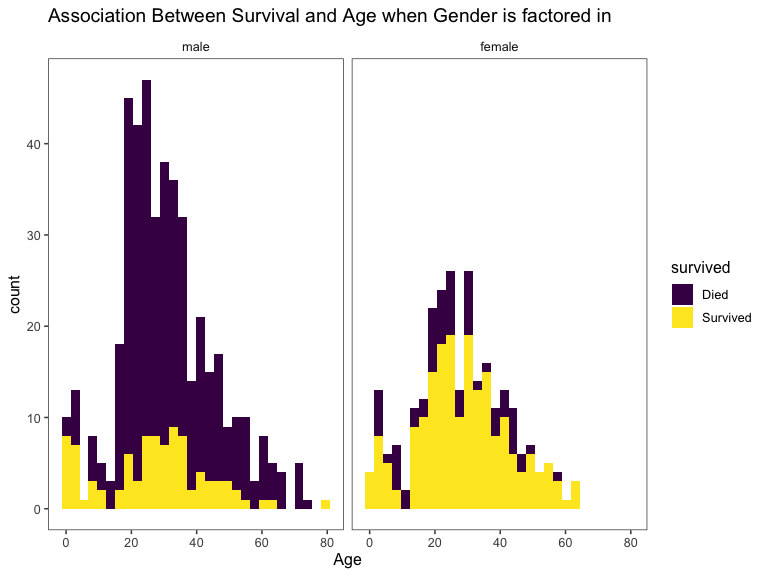
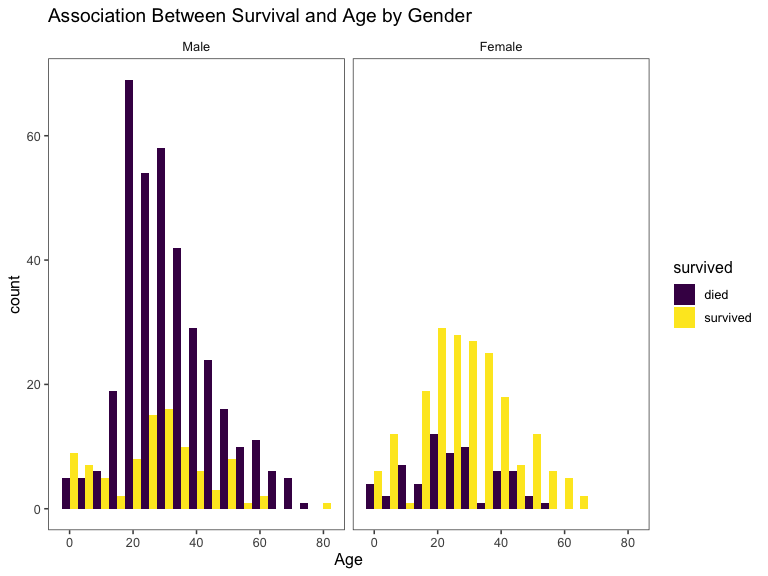
trying to generate the roc curve.

diff --git a/README.md b/README.md
@@ -10,10 +10,9 @@ This titanic project is based on the infamous sinking of Titanic in
 passengers. Datasets provided include the train dataset with `891`
 passengers whose survival fate is known and a test dataset with `418`
 passengers whose survival fate is unknown. I will first start by loading
-both datasets then combine them to do some feature engineering (data
-cleaning and data manipulation) then use machine learning tools to
-predict what the survival fate for the passengers in the test dataset
-would have been.
+both datasets then combine them to do some feature engineering then use
+machine learning tools to predict what the survival fate for the
+passengers in the test dataset would have been.
 
 ## Loading the Dataset
 
@@ -78,12 +77,13 @@ The code chunk below converts appropriate variables to factor variables.
 titanic =
   Titanic %>% 
   mutate(
-    survived = recode(survived, "0" = "Died", "1" = "Survived"),
+    gender = recode(gender, "male" = "Male", "female" = "Female"),
+    survived = recode(survived, "0" = "died", "1" = "survived"),
     embarked = recode(embarked, "C" = "Cherbourg", "S" = "Southampton",
                       "Q" = "Queenstown"),
     pclass = recode(pclass, "1" = "1st", "2" = "2nd", "3" = "3rd"),
-    gender = factor(gender, levels = c("male", "female")),
-    survived = factor(survived, levels = c("Died", "Survived")),
+    gender = factor(gender, levels = c("Male", "Female")),
+    survived = factor(survived, levels = c("died", "survived")),
     embarked = factor(embarked, levels = c("Cherbourg", "Southampton",
                                            "Queenstown")),
     pclass = factor(pclass, levels = c("1st", "2nd", "3rd")))
@@ -138,33 +138,31 @@ ggplot(titanic[1:891,], aes(x = famsize, fill = factor(survived))) +
 
 <img src="README_files/figure-gfm/unnamed-chunk-6-1.png" width="90%" />
 
-And as expected, the larger the family gets the less likely it becomes
-for an individual to survive.
+And as expected, the larger the family gets the less likely an
+individual would have survived.
 
 We can also visualize the relationship between `Age` and `Survival`
 
 ``` r
 # We'll look at the relationship between age & survival by gender.
 ggplot(titanic[1:891,], aes(age, fill = survived)) + 
-  geom_histogram() + 
-  facet_grid(.~gender) + 
+  geom_histogram(position = "dodge", binwidth = 5) + 
+  facet_grid(~gender) + 
   labs(
-    title = "Association Between Survival and Age when Gender is factored in",
+    title = "Association Between Survival and Age by Gender",
     x = "Age") +
   theme_few()
 ```
 
-    ## `stat_bin()` using `bins = 30`. Pick better value with `binwidth`.
-
 <img src="README_files/figure-gfm/unnamed-chunk-7-1.png" width="90%" />
 
-A lot is happening here, but it is clear that the `Female` sex was
-unlikely to survive especially for female aged between 20-40 years old.
-This can be due to a lot of factors such as that mothers might have been
-more vulnerable because they were caring for their children, so they
-were more likely to die. On the male side, it is understandable that
-males aged `20-40` were more likely to survive compared to males in
-other age groups.
+It is clear that the `Female` gender was likely to survive especially
+for female aged between 20-40 years old. This can be due to a lot of
+factors such as that mothers might have been more vulnerable, and thus
+were more likely to be rescued along with their young ones. On the male
+side, males in the `20-40` age group were more likely to die compared to
+males in other age groups because these men might have been involved in
+the rescuing other groups such as mothers, their kids, and the elderly.
 
 ## Cleaning Names
 
@@ -180,8 +178,8 @@ table(titanic$gender, titanic$titles) %>%
 
 |        | Capt | Col | Don | Dona | Dr | Jonkheer | Lady | Major | Master | Miss | Mlle | Mme |  Mr | Mrs | Ms | Rev | Sir | the Countess |
 | ------ | ---: | --: | --: | ---: | -: | -------: | ---: | ----: | -----: | ---: | ---: | --: | --: | --: | -: | --: | --: | -----------: |
-| male   |    1 |   4 |   1 |    0 |  7 |        1 |    0 |     2 |     61 |    0 |    0 |   0 | 757 |   0 |  0 |   8 |   1 |            0 |
-| female |    0 |   0 |   0 |    1 |  1 |        0 |    1 |     0 |      0 |  260 |    2 |   1 |   0 | 197 |  2 |   0 |   0 |            1 |
+| Male   |    1 |   4 |   1 |    0 |  7 |        1 |    0 |     2 |     61 |    0 |    0 |   0 | 757 |   0 |  0 |   8 |   1 |            0 |
+| Female |    0 |   0 |   0 |    1 |  1 |        0 |    1 |     0 |      0 |  260 |    2 |   1 |   0 | 197 |  2 |   0 |   0 |            1 |
 
 Let’s now define all these different name titles as rare titles (for
 those titles which are really rare).
@@ -225,8 +223,8 @@ titanic %>%
 
 | gender | Master | Miss |  Mr | Mrs | Rare Title |
 | :----- | -----: | ---: | --: | --: | ---------: |
-| male   |     61 |    0 | 757 |   0 |         25 |
-| female |      0 |  264 |   0 | 198 |          4 |
+| Male   |     61 |    0 | 757 |   0 |         25 |
+| Female |      0 |  264 |   0 | 198 |          4 |
 
 ``` r
 titanic %>% 
@@ -238,21 +236,21 @@ titanic %>%
 
 | gender | pclass | titles     | median\_age |
 | :----- | :----- | :--------- | ----------: |
-| male   | 1st    | Master     |         6.0 |
-| male   | 1st    | Mr         |        41.5 |
-| male   | 1st    | Rare Title |        49.5 |
-| male   | 2nd    | Master     |         2.0 |
-| male   | 2nd    | Mr         |        30.0 |
-| male   | 2nd    | Rare Title |        41.5 |
-| male   | 3rd    | Master     |         6.0 |
-| male   | 3rd    | Mr         |        26.0 |
-| female | 1st    | Miss       |        30.0 |
-| female | 1st    | Mrs        |        45.0 |
-| female | 1st    | Rare Title |        43.5 |
-| female | 2nd    | Miss       |        20.0 |
-| female | 2nd    | Mrs        |        30.5 |
-| female | 3rd    | Miss       |        18.0 |
-| female | 3rd    | Mrs        |        31.0 |
+| Male   | 1st    | Master     |         6.0 |
+| Male   | 1st    | Mr         |        41.5 |
+| Male   | 1st    | Rare Title |        49.5 |
+| Male   | 2nd    | Master     |         2.0 |
+| Male   | 2nd    | Mr         |        30.0 |
+| Male   | 2nd    | Rare Title |        41.5 |
+| Male   | 3rd    | Master     |         6.0 |
+| Male   | 3rd    | Mr         |        26.0 |
+| Female | 1st    | Miss       |        30.0 |
+| Female | 1st    | Mrs        |        45.0 |
+| Female | 1st    | Rare Title |        43.5 |
+| Female | 2nd    | Miss       |        20.0 |
+| Female | 2nd    | Mrs        |        30.5 |
+| Female | 3rd    | Miss       |        18.0 |
+| Female | 3rd    | Mrs        |        31.0 |
 
 The table above gives us a short summary of how we should go about
 replacing all the missing age values. And as expected, those passengers
@@ -277,7 +275,7 @@ table(titanic$status, titanic$survived)
 ```
 
     ##        
-    ##         Died Survived
+    ##         died survived
     ##   Adult  372      229
     ##   Child   52       61
 
@@ -295,9 +293,8 @@ table(titanic$mother, titanic$survived)
 ```
 
     ##             
-    ##              Died Survived
-    ##   Mother       15       37
-    ##   Not Mother  534      305
+    ##              died survived
+    ##   Not Mother  549      342
 
 Now let us convert both variables created in factor variables
 
@@ -306,7 +303,8 @@ titanic =
   titanic %>% 
   mutate(
     status = factor(status, levels = c("Adult", "Child")),
-    mother = factor(mother, levels = c("Not Mother", "Mother")))
+    mother = factor(mother, levels = c("Not Mother", "Mother"))) %>% 
+  select(-family)
 ```
 
 # Missingness
@@ -459,7 +457,7 @@ sum(is.na(titanic$fare))
 After this step, the final `Titanic` dataset should be cleaned without
 missing values and necessary variables for the `Prediction` stage.
 
-# Prediction
+# Model Building
 
 ## Splitting the Dataset
 
@@ -471,7 +469,21 @@ train = titanic[1:891,]
 test = titanic[892:1309,]
 ```
 
-## Building the Model
-
 I will use the `RandomForest` algorithm to build the model by using the
 `Survival` variable in the `Train` dataset.
+
+``` r
+# Set a random seed
+set.seed(754)
+
+# Build the model (note: not all possible variables are used)
+rf_model = randomForest(survived ~ pclass + gender + age + sib_sp + parch +
+                          fare + embarked + famsize + mother, 
+                        data = train)
+                                             
+# Show model error
+plot(rf_model, ylim = c(0,0.36))
+legend('topright', colnames(rf_model$err.rate), col = 1:3, fill = 1:3)
+```
+
+<img src="README_files/figure-gfm/unnamed-chunk-23-1.png" width="90%" />
